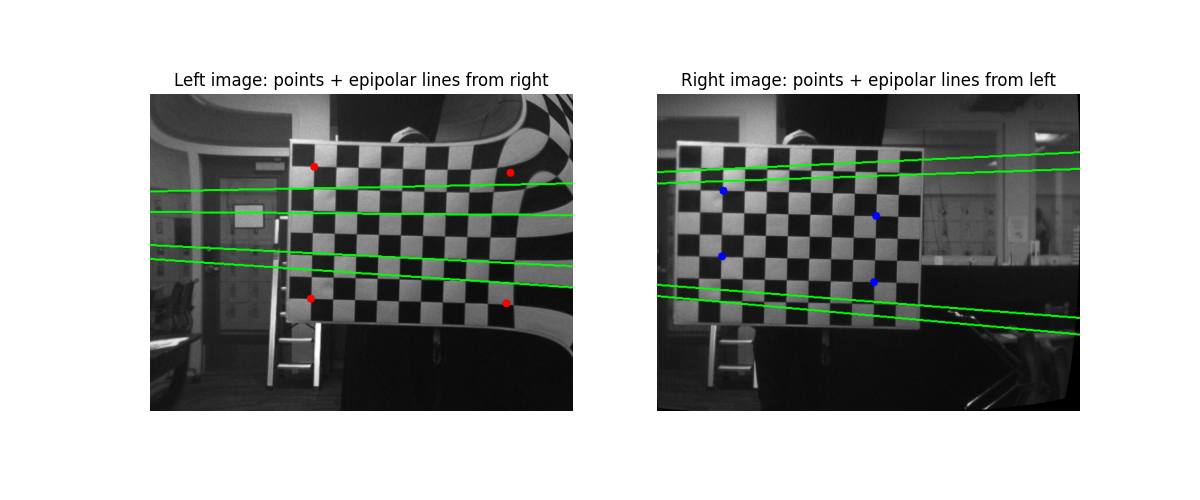
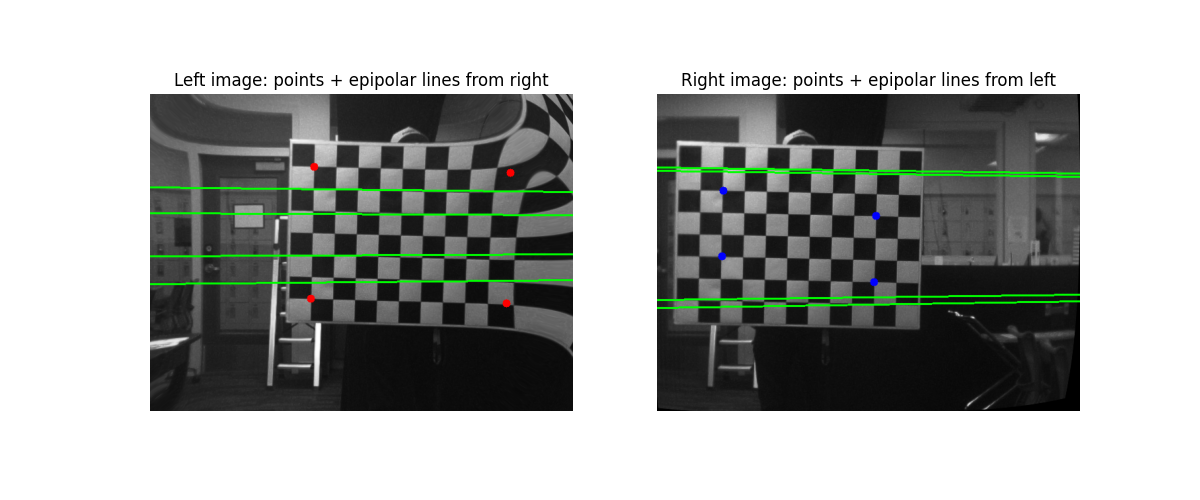
task 4 seems impossible

diff --git a/stereo_calibration/stereo_calibration.py b/stereo_calibration/stereo_calibration.py
@@ -99,7 +99,7 @@ def stereo_calibrate_from_files(
     h, w = sample_img.shape[:2]
     image_size = (w, h)
 
-    flags = cv.CALIB_USE_INTRINSIC_GUESS
+    flags = 0
     criteria = (cv.TERM_CRITERIA_MAX_ITER + cv.TERM_CRITERIA_EPS, 100, 1e-5)
 
     # calculate the stereoCalibrate values
@@ -146,15 +146,20 @@ def draw_epilines(img, lines, color):
         x0, y0 = 0, int(-c / b)
         x1, y1 = w, int(-(c + a * w) / b)
         cv.line(img, (x0, y0), (x1, y1), color, 2)
-    
+
+def draw_horizontal_lines(img, step=50):
+    out = img.copy()
+    for y in range(step, img.shape[0], step):
+        cv.line(out, (0, y), (img.shape[1], y), (0, 255, 0), 1)
+    return out
 
 if __name__ == "__main__":
     CAMERA_PARAMETERS_LEFT = "camera_parameters_left.npz"
     CAMERA_PARAMETERS_RIGHT = "camera_parameters_right.npz"
     # CAMERA_PARAMETERS_LEFT = "camera_parameters_test_left.npz"
     # CAMERA_PARAMETERS_RIGHT = "camera_parameters_test_right.npz"
-    square_size = 101.28 # in mm
-    # square_size = 50.8 # in mm
+    square_size = 3.985 # in inch
+    # square_size = 2 # in inch
     pattern_size = (10, 7) # dim of chess board, internal square intersections
     R, T, rvec, angles_deg, E, F = stereo_calibrate_from_files(left_folder=STEREO_L_IMG_FOLDER, right_folder=STEREO_R_IMG_FOLDER, 
                                              pattern_size=pattern_size, square_size=square_size, 
@@ -234,4 +239,58 @@ if __name__ == "__main__":
     plt.savefig("epipolar_lines.png")
 
     ##################### Task 4 ###############################
-    
+    h, w = imgL.shape[:2]
+    image_size = (w, h)
+
+    R1, R2, P1, P2, Q, roi1, roi2 = cv.stereoRectify(
+        k_left, dist_left,
+        k_right, dist_right,
+        image_size,
+        R, T,
+        flags=cv.CALIB_ZERO_DISPARITY,
+        alpha=1
+    )
+
+    mapL1, mapL2 = cv.initUndistortRectifyMap(
+        k_left, dist_left, R1, P1, image_size, cv.CV_16SC2
+    )
+
+    mapR1, mapR2 = cv.initUndistortRectifyMap(
+        k_right, dist_right, R2, P2, image_size, cv.CV_16SC2
+    )
+
+    rectL = cv.remap(imgL, mapL1, mapL2, cv.INTER_LINEAR)
+    rectR = cv.remap(imgR, mapR1, mapR2, cv.INTER_LINEAR)
+
+    rectL_lines = draw_horizontal_lines(rectL)
+    rectR_lines = draw_horizontal_lines(rectR)
+
+
+    diffL = cv.absdiff(rectL, imgL)
+    diffR = cv.absdiff(rectR, imgR)
+
+    # save figs
+    cv.imwrite("original_left.png", imgL)
+    cv.imwrite("original_right.png", imgR)
+
+    cv.imwrite("rectified_left_lines.png", rectL_lines)
+    cv.imwrite("rectified_right_lines.png", rectR_lines)
+
+    cv.imwrite("absdiff_left.png", diffL)
+    cv.imwrite("absdiff_right.png", diffR)
+
+    # rotation stuff
+    Rrect = R1  # Left rectification rotation matrix
+    print("\nRectification Rotation Matrix Rrect (3x3):")
+    print(Rrect)
+    rvec_rect, _ = cv.Rodrigues(Rrect)
+    euler_rad = rotationMatrixToEulerXYZ(Rrect)
+    euler_deg = np.degrees(euler_rad)
+
+    print("\nRectification rotation vector rvec (3x1) [radians]:")
+    print(rvec_rect)
+
+    print("\nRectification rotation about X, Y, Z [degrees]:")
+    print(f"Rx: {euler_deg[0]:.6f}°")
+    print(f"Ry: {euler_deg[1]:.6f}°")
+    print(f"Rz: {euler_deg[2]:.6f}°")

diff --git a/stereo_calibration/camera_calibration.py b/stereo_calibration/camera_calibration.py
@@ -13,8 +13,8 @@ PRACTICE_L = "practice_img/L"
 PRACTICE_R = "practice_img/R"
 
 pattern_size = (10, 7)  # inner corners (columns, rows) UNCOMMENT FOR TASK_2()
-square_size = 101.28  # this is in millimeters (the EB large board)
-# square_size = 50.8  # this is in millimeters (The practice images)
+square_size = 3.985  # this is in inches (the EB large board)
+# square_size = 2  # this is in inches (The practice images)
 objp = np.zeros((pattern_size[0]*pattern_size[1], 3), np.float32)
 objp[:, :2] = np.mgrid[0:pattern_size[0], 0:pattern_size[1]].T.reshape(-1,2)
 objp *= square_size
@@ -51,8 +51,8 @@ def task_0(file_name, input_path, output_path):
 def task_1(input_path, output_path):
     object_points = []
     image_points = []
-    # file_type = ".bmp"
-    file_type = ".png"
+    file_type = ".bmp"
+    # file_type = ".png"
 
     # get image size just use first image
     for file_name in os.listdir(input_path):
@@ -81,8 +81,8 @@ def task_1(input_path, output_path):
         fy_p = camera_matrix[1,1]
         print("fx_p:", fx_p, "fy_p:", fy_p)
         print("dist:", dist)
-        np.savez("camera_parameters_test_right.npz", camera_matrix=camera_matrix, dist=dist)
+        np.savez("camera_parameters_test_test_left.npz", camera_matrix=camera_matrix, dist=dist)
 
 
 if __name__ == "__main__":
-    task_1(input_path=RIGHT_IMG_FOLDER, output_path="output_path")
+    task_1(input_path=PRACTICE_L, output_path="output_path")
